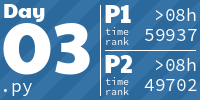
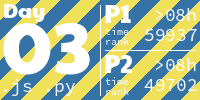
:santa: Added JS Day 3

diff --git a/2024/03/main.js b/2024/03/main.js
@@ -1,0 +1,34 @@
+import * as readline from 'readline';
+
+const rl = readline.createInterface({
+  input: process.stdin,
+})
+
+let p1total = 0;
+let p2total = 0;
+let enabled = true;
+
+rl.on('line', (line) => {
+  line.matchAll(/(?:mul\((\d{1,3}),(\d{1,3})\))|don\'t\(\)|do\(\)/gm).forEach(match => {
+    switch (match[0]) {
+      case "do()":
+        enabled = true;
+        break;
+
+      case "don't()":
+        enabled = false;
+        break;
+
+      default:
+        p1total += match[1] * match[2];
+
+        if (enabled) {
+          p2total += match[1] * match[2];
+        }
+    }
+  });
+})
+
+rl.on('close', () => {
+  console.log(p1total, p2total);
+})

diff --git a/README.md b/README.md
@@ -14,7 +14,7 @@ Planning on making a CLI to get the inputs - cache them - and return them via st
 <a href="2024/02/1.py">
   <img src=".aoc_tiles/tiles/2024/02.png" width="161px">
 </a>
-<a href="2024/03/main.py">
+<a href="2024/03/main.js">
   <img src=".aoc_tiles/tiles/2024/03.png" width="161px">
 </a>
 <h1 align="center">
